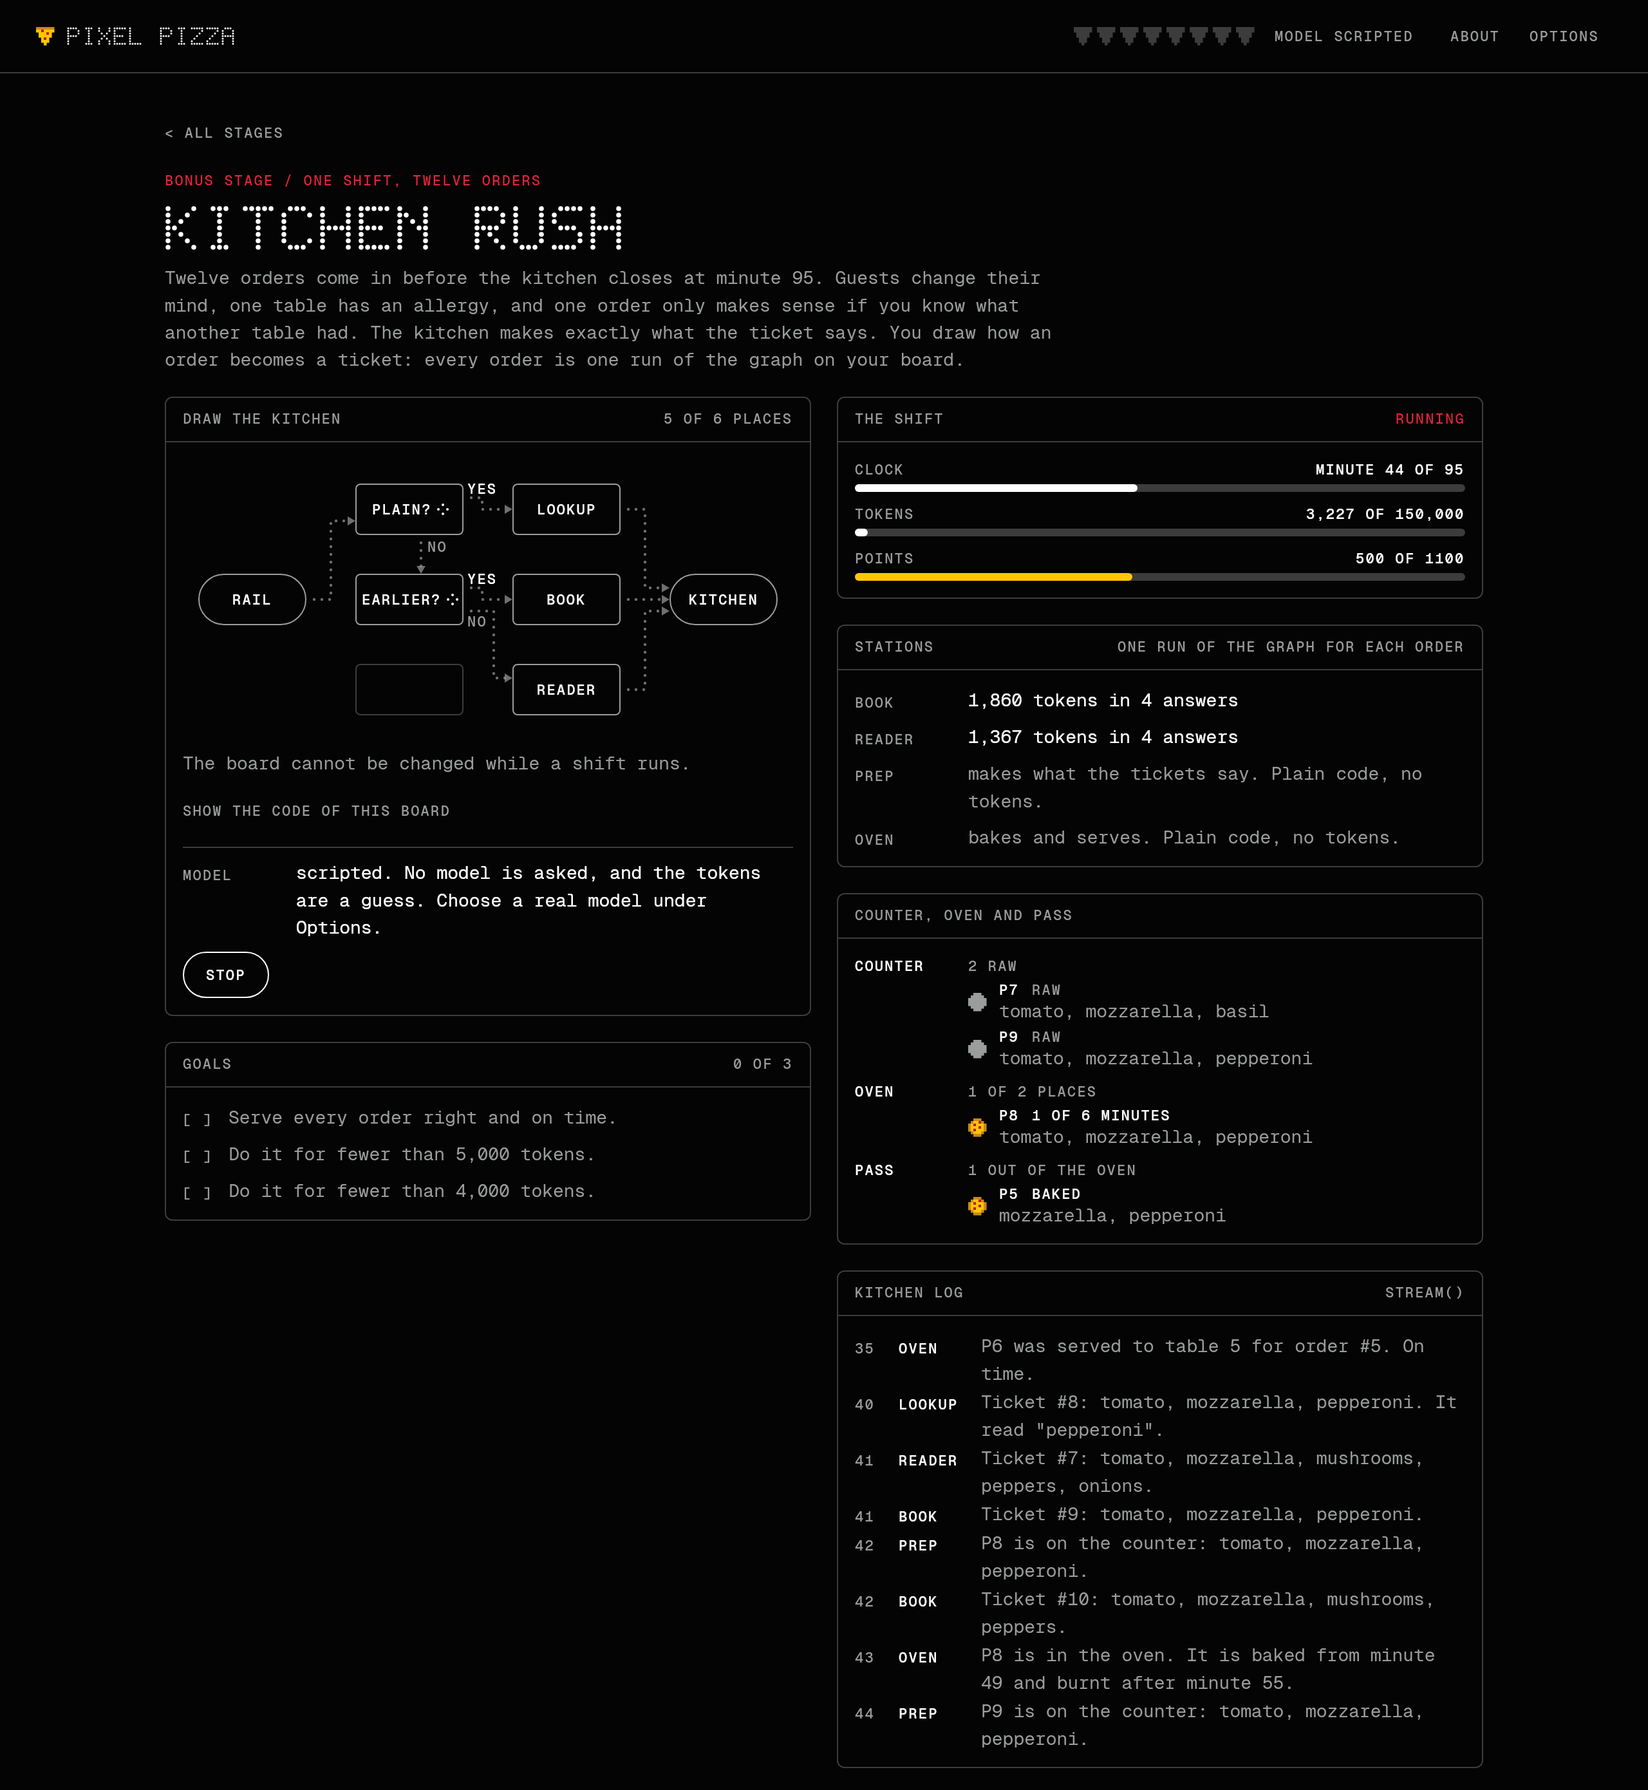
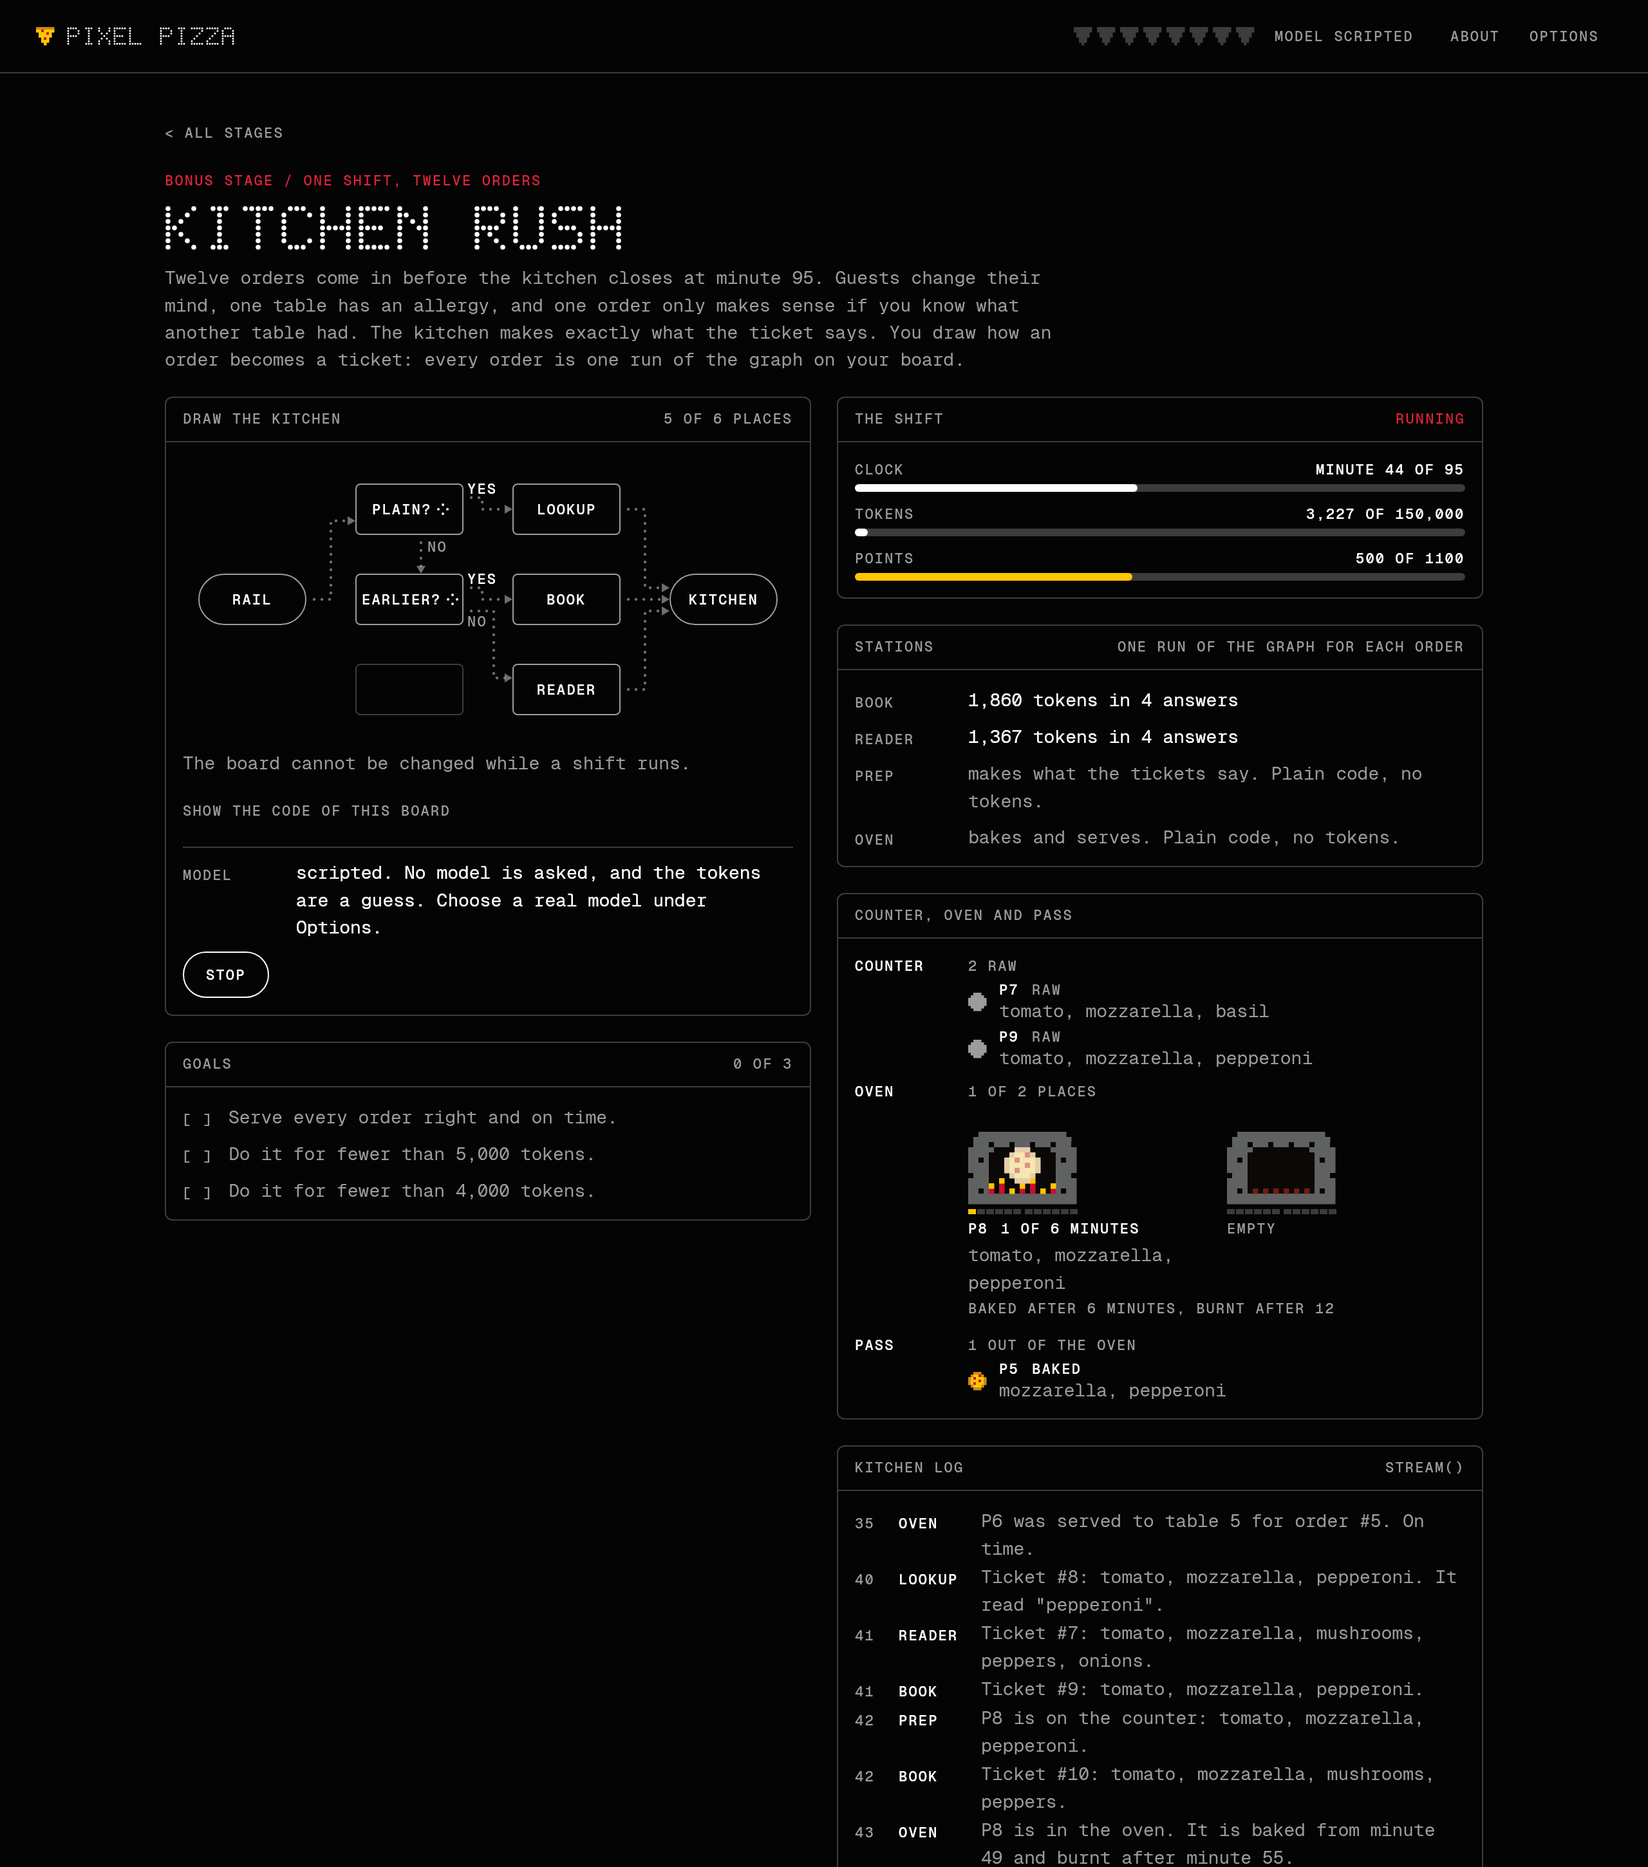
Feature: Draw the oven of the Kitchen rush in pixels
Each place of the oven is a brick front with a fire that moves while
the shift runs. The pizza in it turns from pale to golden, and a bar
under it fills minute by minute: six parts until it is baked and six
more, in red, until it is burnt. A pizza keeps its place for as long as
it is in the oven.

Claude-Session: https://claude.ai/code/session_01PigprY1z1X6wUtJjWMk3qh

diff --git a/composeApp/src/commonMain/kotlin/dev/deeptelar/telar/demo/ui/PixelOven.kt b/composeApp/src/commonMain/kotlin/dev/deeptelar/telar/demo/ui/PixelOven.kt
@@ -1,0 +1,237 @@
+package dev.deeptelar.telar.demo.ui
+
+import androidx.compose.animation.core.LinearEasing
+import androidx.compose.animation.core.RepeatMode
+import androidx.compose.animation.core.animateFloat
+import androidx.compose.animation.core.infiniteRepeatable
+import androidx.compose.animation.core.rememberInfiniteTransition
+import androidx.compose.animation.core.tween
+import androidx.compose.foundation.Canvas
+import androidx.compose.foundation.background
+import androidx.compose.foundation.layout.Arrangement
+import androidx.compose.foundation.layout.Box
+import androidx.compose.foundation.layout.Column
+import androidx.compose.foundation.layout.Row
+import androidx.compose.foundation.layout.size
+import androidx.compose.runtime.Composable
+import androidx.compose.runtime.getValue
+import androidx.compose.runtime.remember
+import androidx.compose.ui.Modifier
+import androidx.compose.ui.geometry.Offset
+import androidx.compose.ui.geometry.Size
+import androidx.compose.ui.graphics.Color
+import androidx.compose.ui.graphics.drawscope.DrawScope
+import androidx.compose.ui.graphics.lerp
+import androidx.compose.ui.semantics.contentDescription
+import androidx.compose.ui.semantics.semantics
+import androidx.compose.ui.unit.dp
+import dev.deeptelar.telar.demo.kitchen.Kitchen
+import dev.deeptelar.telar.demo.kitchen.Pizza
+
+/** How far a pizza in the oven is. */
+internal enum class Bake { BAKING, BAKED, BURNT }
+
+/** What [minutes] in the oven make of a pizza: it is baked after six, and burnt when it stays more than twelve. */
+internal fun bake(minutes: Int): Bake =
+    when {
+        minutes > Kitchen.BURNT_AFTER -> Bake.BURNT
+        minutes >= Kitchen.BAKED_AFTER -> Bake.BAKED
+        else -> Bake.BAKING
+    }
+
+/** What is said about a pizza that has been in the oven for [minutes]. */
+internal fun bakeText(minutes: Int): String =
+    when (bake(minutes)) {
+        Bake.BAKING -> "$minutes of ${Kitchen.BAKED_AFTER} minutes"
+        Bake.BAKED -> "baked, take it out"
+        Bake.BURNT -> "burnt"
+    }
+
+/**
+ * Which pizza is in which place of the oven, given where the pizzas were before, in [places]. A
+ * pizza stays in its place for as long as it is in the oven, and a new one takes the first place
+ * that is free.
+ */
+internal fun ovenPlaces(places: List<String?>, inOven: List<String>): List<String?> {
+    val kept = places.map { name -> name?.takeIf { it in inOven } }.toMutableList()
+    inOven.filter { it !in kept }.forEach { name ->
+        val free = kept.indexOf(null)
+        if (free >= 0) kept[free] = name
+    }
+    return kept
+}
+
+// The oven is drawn on a grid of pixels: a chimney's worth of room for smoke, and below it the brick
+// front with its mouth.
+private const val GRID_WIDTH = 21
+private const val GRID_HEIGHT = 18
+private const val SMOKE_ROWS = 4
+private val PIXEL = 4.dp
+
+private val MOUTH = Color(0xFF0B0908)
+private val EMBER = Color(0xFF6E1D12)
+private val SMOKE = Color(0xFF8A8A8A)
+private val RAW_CRUST = Color(0xFFE9DCC0)
+private val RAW_CHEESE = Color(0xFFF4ECC4)
+private val RAW_PEPPERONI = Color(0xFFE2A39A)
+private val BURNT_CRUST = Color(0xFF2B1D12)
+private val BURNT_CHEESE = Color(0xFF4A3520)
+private val BURNT_PEPPERONI = Color(0xFF1A100B)
+
+/** How high each of the seven flames is, in pixels, in each frame of the fire. */
+private val FLAMES =
+    listOf(
+        listOf(2, 3, 1, 2, 3, 1, 2),
+        listOf(3, 1, 2, 3, 2, 2, 1),
+        listOf(1, 2, 3, 1, 2, 3, 2),
+        listOf(2, 3, 2, 2, 1, 2, 3),
+    )
+
+/** Where the smoke of a burnt pizza is, in each frame: pixels above the oven, as column and row. */
+private val SMOKE_PUFFS =
+    listOf(
+        listOf(9 to 3, 11 to 2, 10 to 0),
+        listOf(10 to 3, 9 to 1, 11 to 0),
+        listOf(11 to 3, 10 to 2, 9 to 0),
+        listOf(10 to 3, 11 to 1, 9 to 1),
+    )
+
+/**
+ * The oven of the kitchen, in pixels: a place for each pizza it holds, with a fire under the pizza
+ * that is in it. A pizza turns from pale to golden while it bakes, and the bar under its place
+ * fills: six parts until it is baked, and six more, in red, until it is burnt.
+ *
+ * @param lit `true` while the shift runs, which is when the fire moves.
+ */
+@Composable
+fun PixelOven(kitchen: Kitchen, lit: Boolean, modifier: Modifier = Modifier) {
+    val seen = remember { arrayOfNulls<String>(Kitchen.OVEN_SLOTS) }
+    val places = ovenPlaces(seen.toList(), kitchen.oven.map { it.name })
+    places.forEachIndexed { index, name -> seen[index] = name }
+
+    val time by rememberInfiniteTransition().animateFloat(0f, FLAMES.size.toFloat(), infiniteRepeatable(tween(520, easing = LinearEasing), RepeatMode.Restart))
+    val frame = if (lit) time.toInt().coerceIn(0, FLAMES.lastIndex) else 0
+
+    Row(modifier, horizontalArrangement = Arrangement.spacedBy(16.dp)) {
+        places.forEachIndexed { index, name ->
+            val pizza = kitchen.oven.firstOrNull { it.name == name }
+            val minutes = pizza?.let { kitchen.minute - it.inOvenSince!! }
+            Column(
+                Modifier.weight(1f).semantics(mergeDescendants = true) {
+                    contentDescription = "Oven place ${index + 1}: " + if (pizza == null) "empty" else "${pizza.name}, ${bakeText(minutes!!)}"
+                },
+                verticalArrangement = Arrangement.spacedBy(4.dp),
+            ) {
+                Chamber(minutes, frame)
+                CookBar(minutes)
+                Caption(pizza, minutes)
+            }
+        }
+    }
+}
+
+/** One place of the oven. [minutes] is how long its pizza has been in, or `null` when the place is empty. */
+@Composable
+private fun Chamber(minutes: Int?, frame: Int) {
+    val brick = lerp(Theme.colors.line, Theme.colors.dim, 0.4f)
+    val joint = Theme.colors.ground
+    val glow = Theme.colors.yellow
+    Canvas(Modifier.size(PIXEL * GRID_WIDTH, PIXEL * GRID_HEIGHT)) {
+        val side = PIXEL.toPx()
+
+        fun pixel(x: Int, y: Int, color: Color) = drawRect(color, Offset(x * side, y * side), Size(side + 0.5f, side + 0.5f))
+
+        // The front: bricks with an arched top, and the dark mouth in it.
+        val top = SMOKE_ROWS
+        for (y in top until GRID_HEIGHT) {
+            for (x in 0 until GRID_WIDTH) {
+                val row = y - top
+                val corner = (row == 0 && (x < 2 || x > GRID_WIDTH - 3)) || (row == 1 && (x < 1 || x > GRID_WIDTH - 2))
+                if (corner) continue
+                val inMouth = x in 4..16 && row in 3..11 && !(row == 3 && (x == 4 || x == 16))
+                // Every other row of bricks is set half a brick further.
+                val isJoint = !inMouth && row % 3 == 2 && (x + (row / 3) * 2) % 4 == 0
+                pixel(x, y, if (inMouth) MOUTH else if (isJoint) joint else brick)
+            }
+        }
+        // A baked pizza lights the rim of the mouth.
+        if (minutes != null && bake(minutes) == Bake.BAKED) {
+            for (x in 5..15) pixel(x, top + 2, glow)
+        }
+
+        if (minutes == null) {
+            // An empty place keeps its embers.
+            for (x in 5..15 step 2) pixel(x, top + 11, EMBER)
+            return@Canvas
+        }
+
+        // The fire: seven flames, red below and yellow at the tip.
+        FLAMES[frame].forEachIndexed { index, height ->
+            val x = 4 + index * 2
+            for (level in 0 until height) {
+                pixel(x, top + 11 - level, if (level == height - 1) SpriteColors.cheese else SpriteColors.pepperoni)
+            }
+        }
+        pie(minutes, originX = 7, originY = top + 3, side)
+
+        if (bake(minutes) == Bake.BURNT) SMOKE_PUFFS[frame].forEach { (x, y) -> pixel(x, y, SMOKE) }
+    }
+}
+
+/** The pizza in a place of the oven: pale when it goes in, golden when it is baked, and dark when it is burnt. */
+private fun DrawScope.pie(minutes: Int, originX: Int, originY: Int, side: Float) {
+    val done = (minutes.toFloat() / Kitchen.BAKED_AFTER).coerceIn(0f, 1f)
+    val burnt = bake(minutes) == Bake.BURNT
+    Sprites.pie.rows.forEachIndexed { y, row ->
+        row.forEachIndexed { x, char ->
+            val color =
+                when (char) {
+                    '.' -> return@forEachIndexed
+                    'c' -> if (burnt) BURNT_CRUST else lerp(RAW_CRUST, SpriteColors.crust, done)
+                    'r' -> if (burnt) BURNT_PEPPERONI else lerp(RAW_PEPPERONI, SpriteColors.pepperoni, done)
+                    else -> if (burnt) BURNT_CHEESE else lerp(RAW_CHEESE, SpriteColors.cheese, done)
+                }
+            drawRect(color, Offset((originX + x) * side, (originY + y) * side), Size(side + 0.5f, side + 0.5f))
+        }
+    }
+}
+
+/** The minutes of a pizza in the oven as a bar: a part for each minute until it is baked, and a part for each minute it can still stay. */
+@Composable
+private fun CookBar(minutes: Int?) {
+    val colors = Theme.colors
+    Row(horizontalArrangement = Arrangement.spacedBy(1.dp)) {
+        repeat(Kitchen.BURNT_AFTER) { part ->
+            val filled = minutes != null && part < minutes
+            val color =
+                when {
+                    !filled -> colors.line
+                    part < Kitchen.BAKED_AFTER -> colors.yellow
+                    else -> colors.red
+                }
+            // The gap after the sixth part is where the pizza is baked.
+            Box(Modifier.size(width = 6.dp, height = 4.dp).background(color))
+            if (part == Kitchen.BAKED_AFTER - 1) Box(Modifier.size(width = 1.dp, height = 4.dp))
+        }
+    }
+}
+
+@Composable
+private fun Caption(pizza: Pizza?, minutes: Int?) {
+    val colors = Theme.colors
+    if (pizza == null || minutes == null) {
+        Label("empty")
+        return
+    }
+    val color =
+        when (bake(minutes)) {
+            Bake.BAKING -> colors.ink
+            Bake.BAKED -> colors.yellow
+            Bake.BURNT -> colors.red
+        }
+    Row(horizontalArrangement = Arrangement.spacedBy(10.dp)) {
+        Label(pizza.name, color = colors.ink)
+        Label(bakeText(minutes), color = color)
+    }
+    Body(pizza.toppings.joinToString { it.word }, color = colors.dim)
+}

diff --git a/composeApp/src/commonMain/kotlin/dev/deeptelar/telar/demo/ui/KitchenScreen.kt b/composeApp/src/commonMain/kotlin/dev/deeptelar/telar/demo/ui/KitchenScreen.kt
@@ -215,7 +215,7 @@ private fun ShiftPanels(controller: KitchenController, shift: BoardShift) {
     if (controller.finished) Result(controller, shift)
     Meters(controller, shift)
     Stations(controller, shift)
-    Floor(shift.kitchen)
+    Floor(shift.kitchen, controller.running)
     Log(shift)
     Rail(controller, shift)
 }
@@ -272,9 +272,9 @@ private fun Stations(controller: KitchenController, shift: BoardShift) {
     }
 }
 
-/** The pizzas that are in the kitchen: raw on the counter, in the oven, and baked on the pass. */
+/** The pizzas that are in the kitchen: raw on the counter, in the oven with its fire, and baked on the pass. */
 @Composable
-private fun Floor(kitchen: Kitchen) {
+private fun Floor(kitchen: Kitchen, running: Boolean) {
     val colors = Theme.colors
     val counter = kitchen.made.filter { it.place == Place.COUNTER }
     val pass = kitchen.made.filter { it.place == Place.PASS }
@@ -283,14 +283,8 @@ private fun Floor(kitchen: Kitchen) {
             counter.forEach { PizzaRow(it, "raw", colors.dim) }
         }
         Area("oven", "${kitchen.oven.size} of ${Kitchen.OVEN_SLOTS} places") {
-            kitchen.oven.forEach { pizza ->
-                val minutes = kitchen.minute - pizza.inOvenSince!!
-                when {
-                    minutes > Kitchen.BURNT_AFTER -> PizzaRow(pizza, "burnt", colors.red)
-                    minutes >= Kitchen.BAKED_AFTER -> PizzaRow(pizza, "baked, take it out", colors.yellow)
-                    else -> PizzaRow(pizza, "$minutes of ${Kitchen.BAKED_AFTER} minutes", colors.ink)
-                }
-            }
+            PixelOven(kitchen, lit = running, Modifier.fillMaxWidth().padding(start = 88.dp, top = 4.dp))
+            Label("baked after ${Kitchen.BAKED_AFTER} minutes, burnt after ${Kitchen.BURNT_AFTER}", Modifier.padding(start = 88.dp, bottom = 4.dp))
         }
         Area("pass", if (pass.isEmpty()) "nothing" else "${pass.size} out of the oven") {
             pass.forEach { PizzaRow(it, if (it.good) "baked" else "spoilt", if (it.good) colors.ink else colors.red) }

diff --git a/composeApp/src/commonTest/kotlin/dev/deeptelar/telar/demo/KitchenRushTest.kt b/composeApp/src/commonTest/kotlin/dev/deeptelar/telar/demo/KitchenRushTest.kt
@@ -18,9 +18,13 @@ import dev.deeptelar.telar.demo.kitchen.scriptedChef
 import dev.deeptelar.telar.demo.kitchen.scriptedReader
 import dev.deeptelar.telar.demo.kitchen.shift
 import dev.deeptelar.telar.demo.kitchen.soloChef
+import dev.deeptelar.telar.demo.ui.Bake
 import dev.deeptelar.telar.demo.ui.KITCHEN_GOALS
 import dev.deeptelar.telar.demo.ui.KitchenController
 import dev.deeptelar.telar.demo.ui.PlayedShift
+import dev.deeptelar.telar.demo.ui.bake
+import dev.deeptelar.telar.demo.ui.bakeText
+import dev.deeptelar.telar.demo.ui.ovenPlaces
 import kotlinx.coroutines.ExperimentalCoroutinesApi
 import kotlinx.coroutines.test.TestScope
 import kotlinx.coroutines.test.advanceTimeBy
@@ -309,5 +313,18 @@ class KitchenRushTest {
         advanceUntilIdle()
 
         assertEquals(listOf("scripted", "another"), second.history.map { it.model })
+    }
+
+    @Test
+    fun aPizzaKeepsItsPlaceInTheOvenAndIsBakedAfterSixMinutes() {
+        assertEquals(listOf("P1", null), ovenPlaces(listOf(null, null), listOf("P1")))
+        assertEquals(listOf("P1", "P2"), ovenPlaces(listOf("P1", null), listOf("P1", "P2")))
+        // P1 is taken out. P2 stays where it is, and the next pizza gets the place that is free.
+        assertEquals(listOf(null, "P2"), ovenPlaces(listOf("P1", "P2"), listOf("P2")))
+        assertEquals(listOf("P3", "P2"), ovenPlaces(listOf(null, "P2"), listOf("P2", "P3")))
+        assertEquals(listOf("P3", "P2"), ovenPlaces(listOf("P3", "P2"), listOf("P2", "P3", "P4")))
+
+        assertEquals(listOf(Bake.BAKING, Bake.BAKING, Bake.BAKED, Bake.BAKED, Bake.BURNT), listOf(0, 5, 6, 12, 13).map(::bake))
+        assertEquals(listOf("5 of 6 minutes", "baked, take it out", "burnt"), listOf(5, 6, 13).map(::bakeText))
     }
 }

diff --git a/composeApp/src/jvmTest/kotlin/dev/deeptelar/telar/demo/PlayThroughTest.kt b/composeApp/src/jvmTest/kotlin/dev/deeptelar/telar/demo/PlayThroughTest.kt
@@ -79,6 +79,7 @@ class PlayThroughTest {
 
         onNodeWithContentDescription("Shift over").performScrollTo().assertIsDisplayed()
         onNodeWithText("400 of 1100").performScrollTo().assertIsDisplayed()
+        onNodeWithContentDescription("Oven place 1: empty").performScrollTo().assertIsDisplayed()
         onNodeWithText("1 / LOOKUP / SCRIPTED").performScrollTo().assertIsDisplayed()
         onNodeWithContentDescription("Serve every order right and on time. Open").performScrollTo().assertIsDisplayed()
 

diff --git a/README.md b/README.md
@@ -66,7 +66,8 @@ what the game does not check itself is reported by Telar when the graph is compi
 
 The board you start with sends every order to the menu lookup. It costs no tokens and gets most
 orders wrong. After a shift every order shows the way it took and the ticket it got, so you can see
-which station failed it. There are three goals: serve every order right and on time, then do it
+which station failed it. While the shift runs, the oven shows its two places in pixels: a fire under
+each pizza, and a bar that fills until the pizza is baked, and then until it is burnt. There are three goals: serve every order right and on time, then do it
 for fewer than 5,000 tokens, then for fewer than 4,000. The orders are the same every time, and the
 shifts you played are listed side by side.
 
